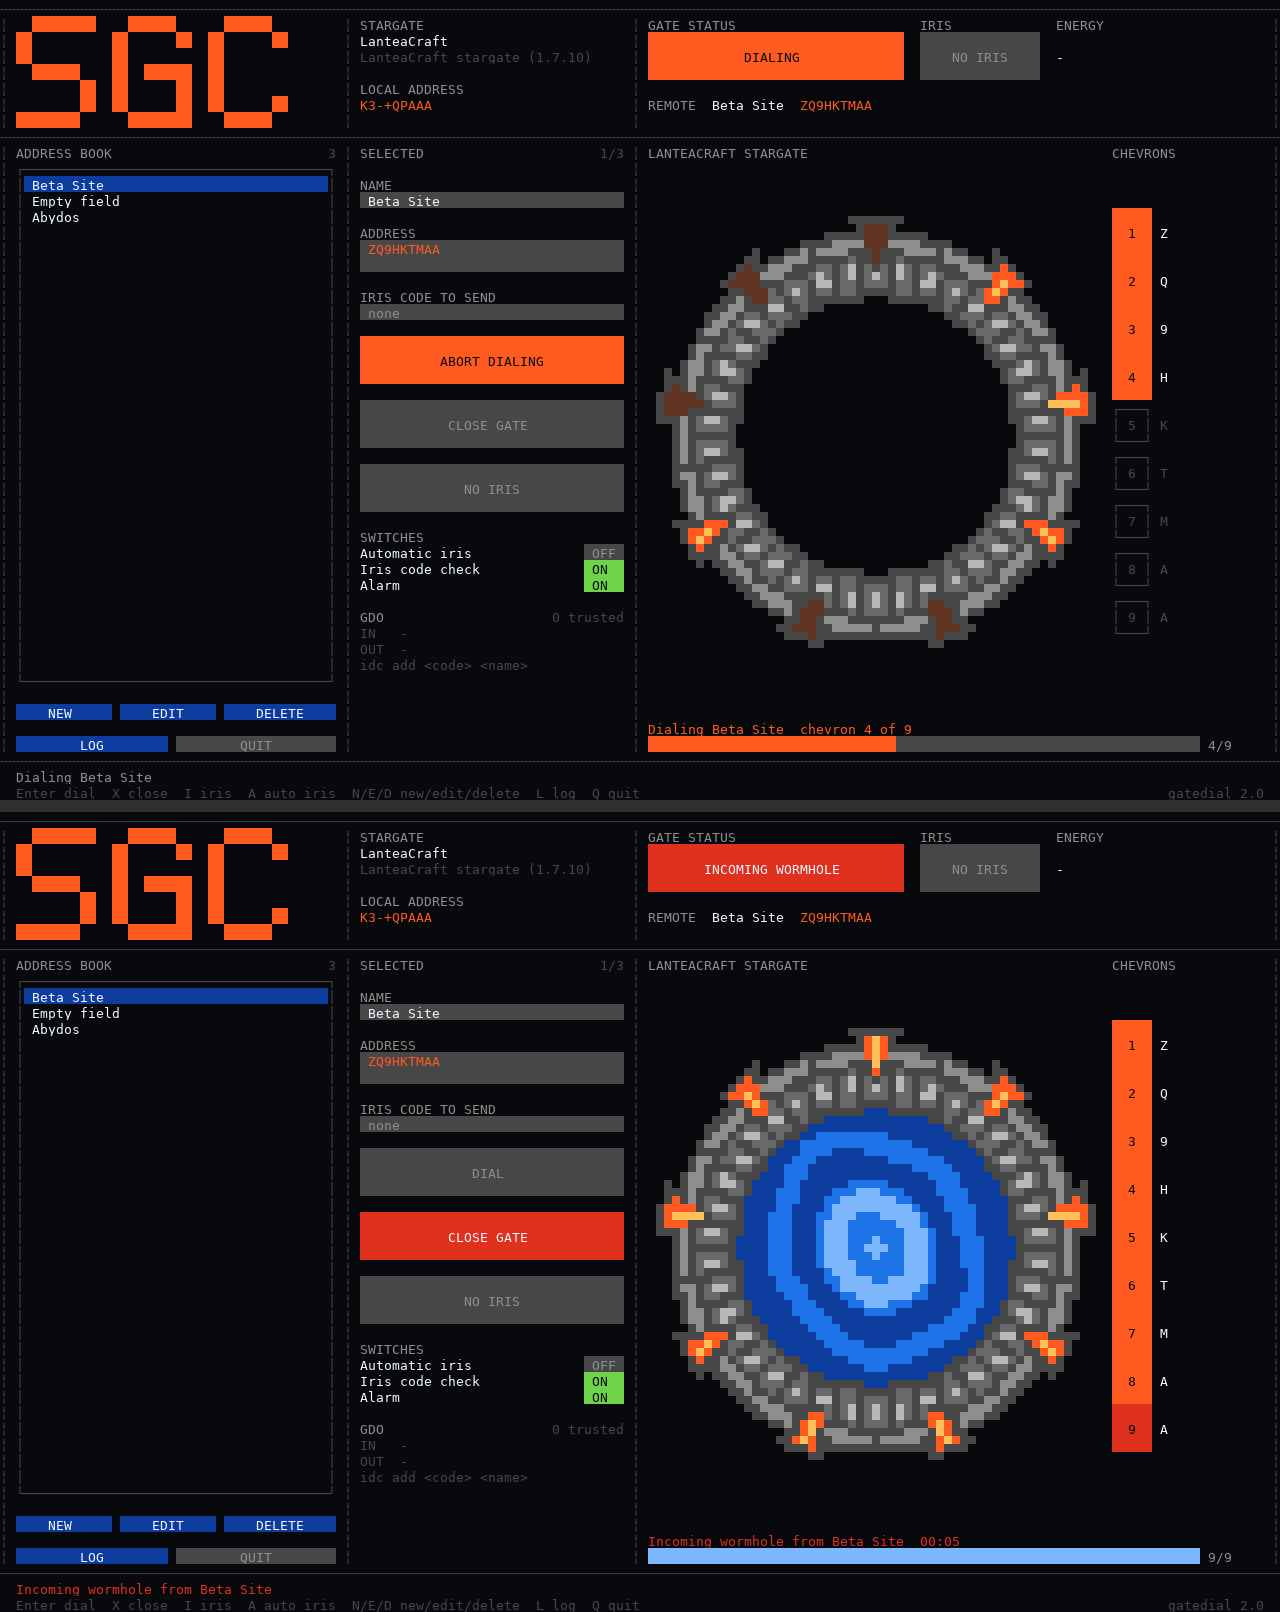
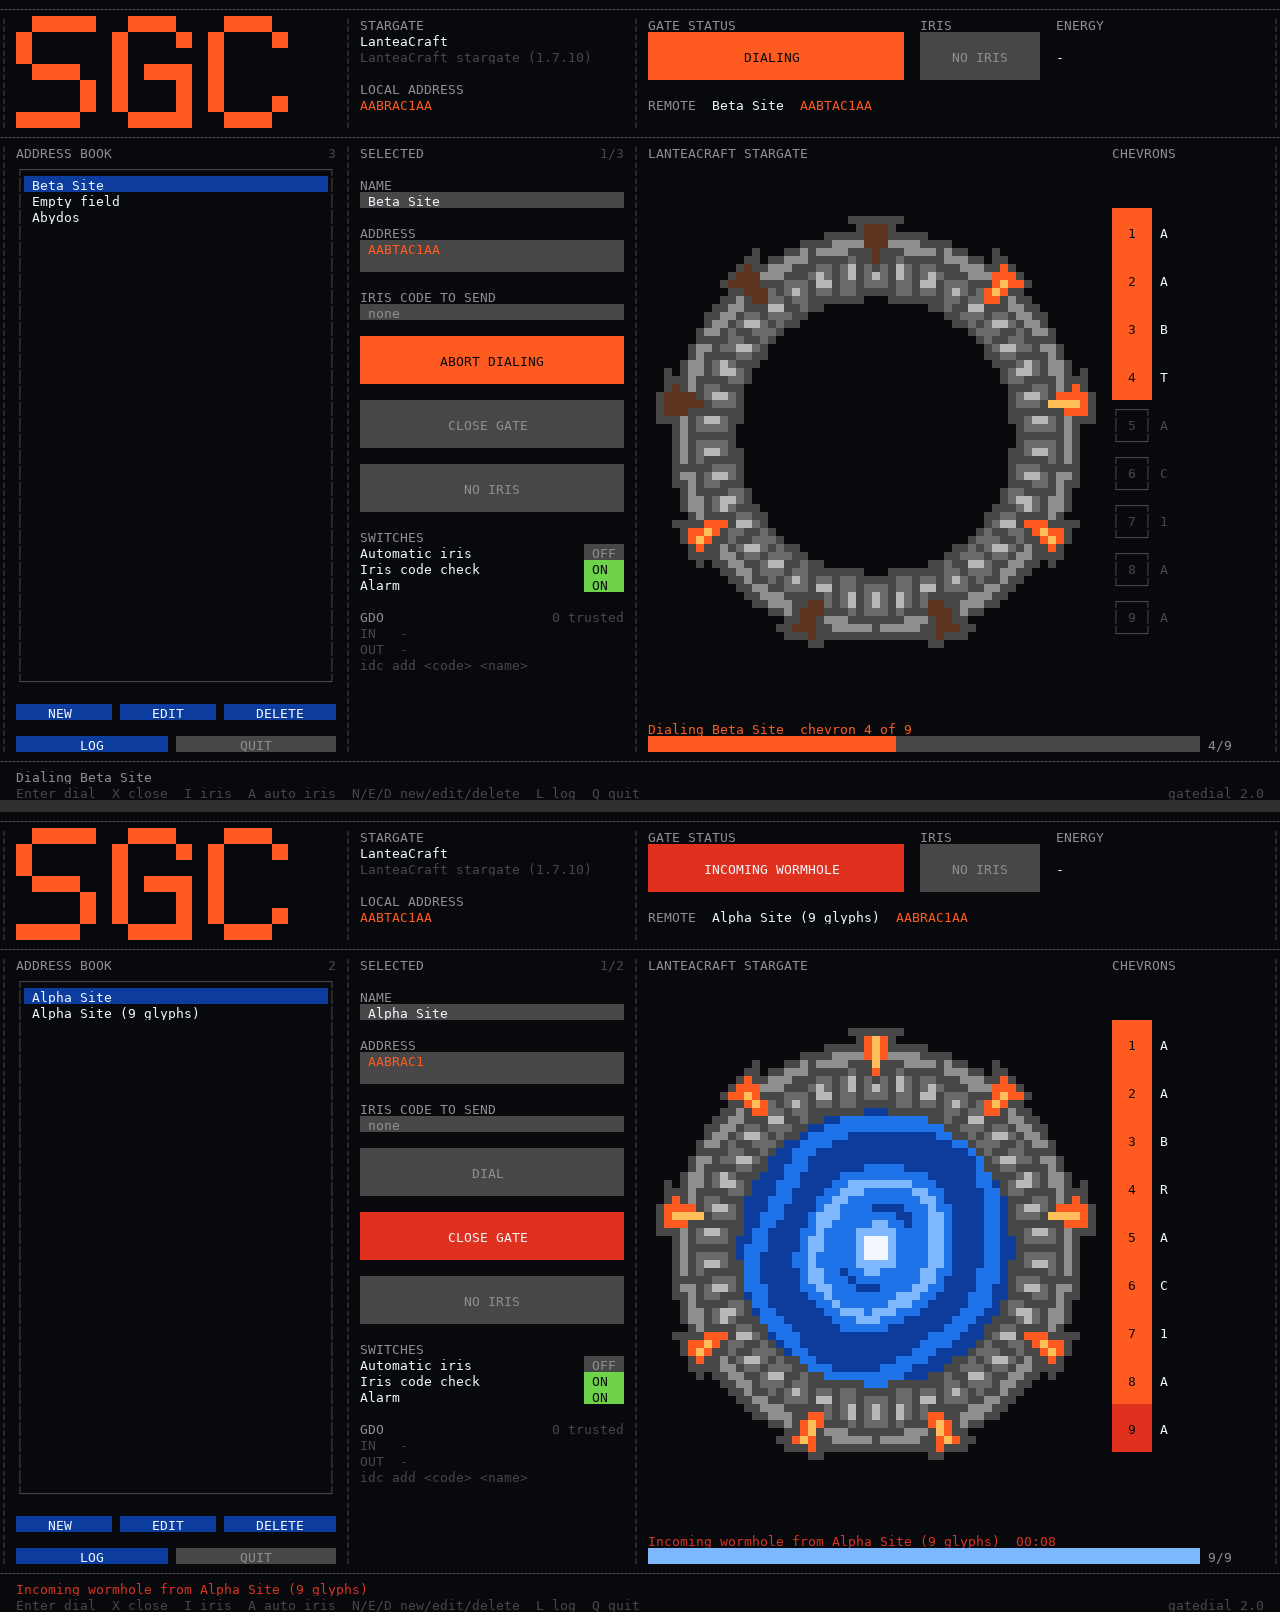
LanteaCraft 1.7.10: fixes from a real 1.7.10 game; Personal Dialer on ComputerCraft 1.75
Tested gatedial and the Personal Dialer in a Minecraft 1.7.10 world with
LanteaCraft (built from its 1.7.10-legacy-patches source), OpenComputers
1.8.10 and ComputerCraft 1.75. The game showed what the simulated gate had
not:

- OpenComputers puts a component address before a signal's arguments, so
  no chevrons were counted and no callers named. sgc.lanteacraft17 and the
  Personal Dialer skip it.
- A 7-chevron gate (plain ring blocks beside the base) stops a 9-glyph dial
  after the sixth chevron. That was reported as "No gate answered"; now the
  programs say the gate has 7 chevrons and to dial the first 7 glyphs.
- A caller that dialed 7 glyphs is in the same dimension: its address is
  completed with this gate's dimension glyphs, so it is found in the book,
  and the chevron count stays at the 7 that locked.
- ComputerCraft 1.75 (LuaJ) turns an error value that is not a string into
  "table: ...", which hid the reason for every failed dial in the Personal
  Dialer, and its table.pack leaves out n. The dialer now raises a string
  and keeps its own pack.

Docs: real-game test results and screenshots, 7- and 9-chevron gates,
installing on ComputerCraft 1.75 (no wget, programs run by their exact
name), and keeping LanteaCraft gates' chunks loaded (LanteaCraft 1.7.10
doesn't save its ring blocks).

Claude-Session: https://claude.ai/code/session_01YFRZ9wrxa5KiEPo7au8k7x

diff --git a/OpenComputers/README.md b/OpenComputers/README.md
@@ -134,17 +134,19 @@ At the top of `gatedial.lua`:
 
 LanteaCraft's 1.7.10 builds give a computer very little: `dial`, `disconnect`, and whether the gate is busy, dialing or complete. gatedial fills in the rest from the gate's own signals.
 
-- **Addresses** are 7 or 9 glyphs from A–Z, 0–9, `-` and `+`, typed as the gate shows them, such as `K3-+QPAAA`. Seven glyphs reach a gate in the same dimension; nine reach another dimension. A gate with only seven chevrons can't dial nine.
+- **Addresses** are 7 or 9 glyphs from A–Z, 0–9, `-` and `+`, typed as the gate shows them, such as `K3-+QPAAA`. Seven glyphs reach a gate in the same dimension; nine reach another dimension.
+- **Seven or nine chevrons**: A gate dials nine glyphs only if the two ring places two blocks to either side of the base, in the bottom row, hold chevrons. With plain ring blocks there it has seven chevrons, and LanteaCraft stops a nine-glyph dial after the sixth chevron. gatedial then says "This gate has 7 chevrons: it can't dial a 9-glyph address"; dial the first seven glyphs to reach a gate in the same dimension.
 - **Dialing**: one call dials the whole address, about 2.5 seconds a chevron. The chevrons light from the gate's `sgChevronEncode` signals.
 - **No gate there**: LanteaCraft accepts any well-formed address, dials every chevron, and only then gives up. gatedial reports "No gate answered at that address" (there was no gate, or it was busy).
-- **Incoming wormholes**: the gate sends the caller's address one glyph per chevron. gatedial puts it together, so the caller is named when the wormhole opens.
+- **Incoming wormholes**: the gate sends the caller's address one glyph per chevron. gatedial puts it together, so the caller is named when the wormhole opens. A caller that dialed seven glyphs is in the same dimension, so gatedial adds this gate's last two glyphs and finds it under its full address.
 - **Closing** works from either end (LanteaCraft's `closeFromEitherEnd`, on by default). A wormhole closes by itself after 5 minutes (`secondsToStayOpen`).
 - **No iris and no iris codes**: LanteaCraft 1.7.10 doesn't let a computer move an iris or send anything through the wormhole. gatedial shows NO IRIS, and an entry's iris code isn't sent.
 - If gatedial starts while a wormhole is already open, it can't tell which way it goes and shows it as incoming.
+- **Keep both gates' chunks loaded** while you use them: stand nearby, or build by the world spawn or use a chunk loader. LanteaCraft 1.7.10 doesn't save its ring blocks, so when a gate's chunk unloads and loads again the gate drops out of its call (the other side stays open) and stops counting as a built gate. This is LanteaCraft's own behaviour, seen in the test world below.
 
-![gatedial on a simulated LanteaCraft 1.7.10 gate](../imgs/LanteaCraft17Console.png)
+![gatedial on LanteaCraft 1.7.10 gates in a 1.7.10 world](../imgs/LanteaCraft17Console.png)
 
-*gatedial on a tier 3 screen. Top: dialing a nine-glyph address, four chevrons locked. Bottom: the other gate has dialed in and the wormhole is open; the caller's glyphs added up to an address in the book, so it is named. These screens were rendered from a headless OpenOS test harness with a simulated gate, not captured in-game.*
+*gatedial on tier 3 screens in a Minecraft 1.7.10 world. Top: station A dialing Beta Site, four of nine chevrons locked. Bottom: at Beta Site, the wormhole from station A is open; the caller's glyphs added up to an address in the book, so it is named. These are the computers' own screens, read from the server (see [Tested](#tested)).*
 
 ## Tested
 
@@ -184,6 +186,20 @@ LanteaCraft's 1.7.10 builds give a computer very little: `dial`, `disconnect`, a
 
 *SGCraft 2.3.0 in a Minecraft 1.12.2 world. Left: the dialing computer, with all nine chevrons locked, the wormhole open and the code accepted. Right: the computer at the other gate, with the incoming wormhole and the code it accepted.*
 
-**LanteaCraft for 1.7.10** has only been tried in a headless OpenOS test harness, on tier 3 and tier 2 screens, against a simulated gate. The simulation was written from the source of LanteaCraft's `1.7.10-legacy-patches` branch: the connection's states and their timings, the OpenComputers driver's methods, errors and signals, and closing from either end. Tried: dialing a nine-glyph address, closing with X, an incoming wormhole with the caller named, the other side closing, a dial to an address with no gate, and the gate log. It has not been tried in a game.
+**In a Minecraft 1.7.10 world with LanteaCraft** (Forge 10.13.4.1614, OpenComputers 1.8.10). LanteaCraft was built from its `1.7.10-legacy-patches` source, the last 1.7.10 line it released, with two one-line changes so it compiles against this Forge (a renamed glowstone item and fluid field; neither touches gates or computers). Two gates stood by the world spawn, station A with nine chevrons and station B with seven, each with an Adapter against its base and a tier 3 computer and screen running gatedial. A small test mod built them, turned the computers on, pressed keys and read the screens from the server console.
+
+- gatedial found each gate as a LanteaCraft stargate (1.7.10) and showed its address, `DAB6AA0AA` and `DAB4AA0AA`.
+- A dialed B's nine glyphs; the chevrons lit one by one and the wormhole opened. B raised the alarm while A dialed, then named the caller from its glyphs.
+- B closed the wormhole with X from the receiving side.
+- B dialed A's first seven glyphs and connected; A named B by its full nine-glyph address.
+- B dialing nine glyphs stopped after the sixth chevron with the seven-chevron message. A dialing an address with no gate went through all nine chevrons and reported "No gate answered at that address".
+- Both gate logs recorded every call, close and failure.
+- The test found three bugs, all fixed:
+  - OpenComputers puts a component address before a signal's arguments, so no chevrons were counted and no callers named.
+  - A seven-chevron gate stopping a nine-glyph dial was reported as "No gate answered".
+  - A caller that dialed seven glyphs wasn't found under its nine-glyph entry.
+- In an earlier run, station B was far from the spawn and its chunk unloaded during the call. LanteaCraft dropped it from the call and it stopped counting as a built gate (see the chunk note under [LanteaCraft on 1.7.10](#lanteacraft-on-1710)).
+
+Before that, the same scenarios ran in a headless OpenOS test harness against a gate simulated from LanteaCraft's source; the harness now includes what the game showed.
 
 Please open an issue if a gate behaves differently.

diff --git a/PersonalDialer/README.md b/PersonalDialer/README.md
@@ -19,19 +19,26 @@ Written for Stargate Journey on Minecraft 1.20.1 with CC: Tweaked. Also works wi
 
 ComputerCraft 1.75 is the last ComputerCraft for Minecraft 1.7.10, and the dialer runs on it as well as on CC: Tweaked. The Gate Room and the Network Hub need CC: Tweaked, so on 1.7.10 the Personal Dialer is the ComputerCraft program to use; with OpenComputers, use [gatedial](../OpenComputers/).
 
+- **Install on ComputerCraft 1.75**: it has no `wget`, and runs a program only by its exact file name (no `.lua` added), so save the dialer as `dialer`. With the HTTP API on in `ComputerCraft.cfg`, type `lua` and then:
+  ```lua
+  local r = http.get("https://raw.githubusercontent.com/jarae1205-cpu/StargateJourney-ComputerCraft-Programs/main/PersonalDialer/dialer.lua") local f = fs.open("dialer", "w") f.write(r.readAll()) f.close() r.close()
+  ```
+  then `exit()` and run `dialer`. (The test world had no internet, so this download line hasn't been tried in a game.)
 - **Connect the gate**: craft LanteaCraft's **ComputerCraft Adapter** (obsidian around a control crystal, with redstone under it) and place it against the gate's base block, then put the computer next to the adapter (or reach it with a wired modem). The adapter must touch no other LanteaCraft block; against the DHD (the Stargate Controller) it gives a `stargate_controller`, which can't dial.
 - **Dialing**: one call dials the whole address, about 2.5 seconds a chevron. The gate only says whether it is busy and whether it is dialing, so the dialer counts the chevrons and learns the direction from the gate's events.
+- **Seven or nine chevrons**: A gate dials nine glyphs only if the two ring places two blocks to either side of the base, in the bottom row, hold chevrons. With plain ring blocks there it has seven chevrons, and LanteaCraft stops a nine-glyph dial after the sixth chevron. The dialer then says the gate has 7 chevrons; dial the first seven glyphs to reach a gate in the same dimension.
 - **No gate there**: LanteaCraft accepts any well-formed address, dials every chevron, and only then gives up. The dialer says "No gate answered at that address" (there was no gate, or it was busy).
-- **Incoming wormholes**: the gate sends the caller's address one glyph per chevron, and the dialer puts it together, so a caller in your book is named.
+- **Incoming wormholes**: the gate sends the caller's address one glyph per chevron, and the dialer puts it together, so a caller in your book is named (a seven-glyph caller under its full address).
 - **Closing** works from either end. A wormhole closes by itself after 5 minutes.
 - **No iris and no iris codes**: a computer can't move a LanteaCraft 1.7.10 iris or send anything through the wormhole.
 - **The gate picture** is drawn in whole character blocks on ComputerCraft 1.75, which lacks the small block characters CC: Tweaked uses. It is coarser but shows the same things.
+- **Keep both gates' chunks loaded** while you use them: stand nearby, or build by the world spawn or use a chunk loader. LanteaCraft 1.7.10 doesn't save its ring blocks, so when a gate's chunk unloads and loads again the gate drops out of its call (the other side stays open) and stops counting as a built gate. This is LanteaCraft's own behaviour, seen in the [gatedial test world](../OpenComputers/README.md#tested).
 
-![Personal Dialer on a simulated LanteaCraft 1.7.10 gate](../imgs/LanteaCraft17Dialer.png)
+![Personal Dialer on ComputerCraft 1.75 and a LanteaCraft 1.7.10 gate](../imgs/LanteaCraft17Dialer.png)
 
-*Top, CC: Tweaked: dialing a nine-glyph address, and an incoming wormhole with the caller named. Bottom, ComputerCraft 1.75 rules: the open wormhole in the coarser gate picture, and a dial to an address with no gate. These screens were rendered from a headless test harness with a simulated gate, not captured in-game.*
+*ComputerCraft 1.75 in a Minecraft 1.7.10 world. Top: the wormhole open to Alpha Site, and Alpha Site dialing in, named from its glyphs. Bottom: the gate picture in whole blocks, and a dial to an address with no gate. These are the computer's own screen, read from the server.*
 
-Tested only in that harness, against a gate simulated from the source of LanteaCraft's `1.7.10-legacy-patches` branch (its connection states and timings, and the ComputerCraft Adapter's methods, errors and events). The ComputerCraft 1.75 run used Lua 5.1 without `peripheral.getName` or the teletext characters. Neither has been tried in a game.
+**Tested in a Minecraft 1.7.10 world** with ComputerCraft 1.75 and LanteaCraft (the same world as [gatedial's test](../OpenComputers/README.md#tested)): an advanced computer at a nine-chevron gate, with LanteaCraft's ComputerCraft Adapter against the base. The dialer found the gate on the computer's `back` side and showed its address. It dialed another gate, lit the chevrons as they locked and opened the wormhole. It named a caller from its glyphs, saw the other side close the wormhole, and reported the reason for a dial to an address with no gate. Started from `startup` or typed into the shell as `dialer`, it ran the same. The test found three bugs, all fixed: ComputerCraft 1.75 has no `peripheral.getName`, its `table.pack` leaves out the count, and its Lua turns an error that isn't a string into "table: ...", which had hidden the reason for every failed dial.
 
 ## Features
 

diff --git a/StargateCommand/README.md b/StargateCommand/README.md
@@ -250,10 +250,12 @@ local ok, why = gate:dial({ 26, 6, 14, 31, 11, 29 })
 LanteaCraft's 1.7.10 releases (`sgc.lanteacraft17`) are a different mod underneath, with a much smaller computer interface:
 
 - The computer reaches the gate through LanteaCraft's ComputerCraft Adapter, or an OpenComputers Adapter, against the gate's base block. Both give a `stargate` peripheral, told apart from SGCraft's by its methods (`isDialing`, `isComplete`, `getInterfaceVersion`).
-- An address is 7 or 9 glyphs from the same alphabet. Seven reach a gate in the same dimension, nine another dimension.
-- The gate says only whether it is busy and whether it is dialing. The direction, the chevrons and the caller's address come from its events (`sgOutgoing`, `sgIncoming` with one glyph per chevron, `sgChevronEncode`, `sgWormholeOpening`, `sgWormholeClosing`, `sgIdle`). They carry no peripheral name.
+- An address is 7 or 9 glyphs from the same alphabet. Seven reach a gate in the same dimension, nine another dimension. A gate dials nine glyphs only if the two ring places two blocks to either side of the base, in the bottom row, hold chevrons. With plain ring blocks there it has seven chevrons, and LanteaCraft stops a nine-glyph dial after the sixth chevron.
+- The gate says only whether it is busy and whether it is dialing. The direction, the chevrons and the caller's address come from its events (`sgOutgoing`, `sgIncoming` with one glyph per chevron, `sgChevronEncode`, `sgWormholeOpening`, `sgWormholeClosing`, `sgIdle`). They carry no peripheral name; on OpenComputers a component address comes first, which is skipped.
 - A dial to an address with no gate runs through every chevron before it fails.
 - Either side can close the wormhole, and it closes by itself after 5 minutes. There is no iris a computer can move, and nothing can be sent through the wormhole.
+- LanteaCraft 1.7.10 doesn't save its ring blocks: a gate whose chunk unloads and loads again drops out of its call.
+- Tested with gatedial and the Personal Dialer in a Minecraft 1.7.10 world with OpenComputers 1.8.10 and ComputerCraft 1.75 (see [gatedial's test](../OpenComputers/README.md#tested)).
 
 ## Just Stargate Mod notes
 

diff --git a/README.md b/README.md
@@ -54,7 +54,7 @@
  - Address book, dialing, iris, gate picture on a tier 3 screen, touch or keys
  - Iris codes and the gate log, through JSG's own GDO on JSG gates
  - Shares its address book, iris codes and gate log files with the ComputerCraft programs
- - Tested in Minecraft 1.12.2 worlds with OpenComputers 1.8.10 and JSG or SGCraft 2.3.0, and in a 1.7.10 world with SGCraft 1.13.3: dialing, iris codes and the iris
+ - Tested in Minecraft 1.12.2 worlds with OpenComputers 1.8.10 and JSG or SGCraft 2.3.0, and in 1.7.10 worlds with SGCraft 1.13.3 and with LanteaCraft: dialing, iris codes and the iris
 
 ![The gatedial console on a tier 3 screen](./imgs/OpenComputersConsole.png)
 
@@ -144,7 +144,7 @@ Which of the stargate mods run on Minecraft 1.20.1, and what this repository has
 | **Stargate Infinity** | no mod found | the Infinity looks: the [JSG pack](./JSGInfinity/) and [JSG add-on](./JSGInfinityGate/), the [SGCraft add-on](./SGCraftInfinityGate/), the [Stargate Journey variant](./StargateJourneyVariants/), [Chevron Seven](./ChevronSeven/)'s Infinity look, and the Gate Room and Personal Dialer themes |
 | **Lantea: Stargates** | 1.20.1 (Forge) and 1.21.1 (NeoForge) | the ComputerCraft programs |
 | **LanteaCraft** | 1.21.1 (NeoForge) | the programs |
-| **LanteaCraft** (its 2014–2015 releases) | 1.7.10 (Forge) | the [Personal Dialer](./PersonalDialer/#lanteacraft-on-1710) on ComputerCraft 1.75, and [gatedial](./OpenComputers/#lanteacraft-on-1710) on OpenComputers; tried only against a gate simulated from LanteaCraft's source |
+| **LanteaCraft** (its 2014–2015 releases) | 1.7.10 (Forge) | the [Personal Dialer](./PersonalDialer/#lanteacraft-on-1710) on ComputerCraft 1.75, and [gatedial](./OpenComputers/#lanteacraft-on-1710) on OpenComputers; both tested in a 1.7.10 world |
 | **Chevron Seven** (in this repository) | 1.20.1 (Forge) | every program |
 
 ## [Window drawer test](./WIndow%20drawer%20test.lua)
